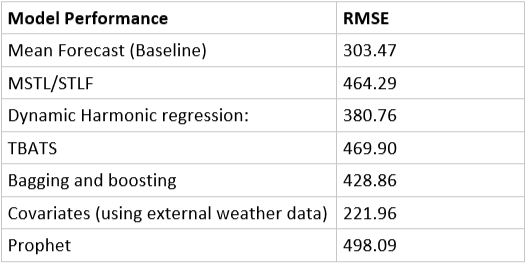
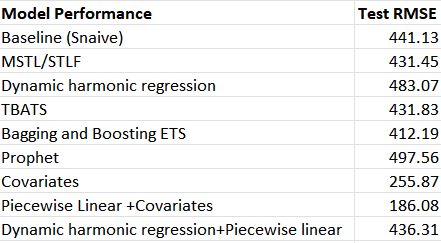
Updated code to add covariates lagged temp forecasts

Changed region(s): [[0.0, 0.5185, 1.0, 1.0], [0.0, 0.0, 1.0, 0.4897]]

diff --git a/README.md b/README.md
@@ -1,5 +1,3 @@
-# Energy Consumption Forecast
-
 Forecasting energy consumption for Pittsburgh
 
 ![banner](/images/banner.jpg)
@@ -31,11 +29,9 @@ Analysis and forecast of electricity consumption using various models.
 
 ![prophet decomp](/images/dcomp_prophet.png)
 
-- I've evaluated my performance against the mean forecast.
-- In addition, in the covariates models I've included weather data for the region in the same time period. (Source :[https://www.kaggle.com/selfishgene/historical-hourly-weather-data](https://www.kaggle.com/selfishgene/historical-hourly-weather-data))
+- I've evaluated my performance against the seasonal persistence model forecast (snaive). I.e. if I'm forecasting energy for 4 p.m. on a day, I'm using energy demand from the previous day at 4 p.m. 
+- In addition, in the covariates models, I've used lagged weather data to predict the next hour's electricity comsumption . (Source :[https://www.kaggle.com/selfishgene/historical-hourly-weather-data](https://www.kaggle.com/selfishgene/historical-hourly-weather-data))
 
 ## RESULTS & CONCLUSION
 
-![Model Performance](/images/perf.png)
-
-Forecasting using covariates beats the mean forecast, hence is the best model for this dataset.
+Forecasting using Piecewise linear covariates model beats the baseline forecast, hence is the best model for this dataset.
